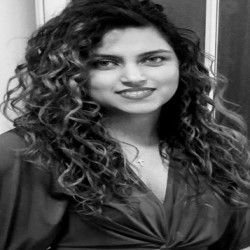
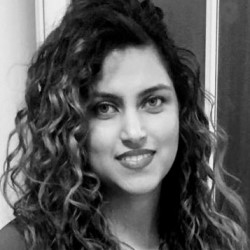
updates
- update teams image
- update favicon
- update all page titles
- remove siservs referral from footer

diff --git a/about.html b/about.html
@@ -4,7 +4,7 @@
 <head>
     <meta charset="utf-8">
     <meta http-equiv="x-ua-compatible" content="ie=edge">
-    <title>Green Soul</title>
+    <title>Generation V</title>
     <meta name="description" content="">
     <meta name="viewport" content="width=device-width, initial-scale=1">
     <!-- Favicon -->
@@ -280,7 +280,7 @@
         <div class="container">
             <!-- Copyright -->
             <div class="copyright text-center">
-                <p>© GENERATION V. ALL RIGHTS RESERVED. Made with <i class="fa fa-heart heart-icon"></i> By <a target="_blank" href="https://www.siservs.com">SISERVS</a></p>
+                <p>© GENERATION V. ALL RIGHTS RESERVED.</p>
             </div>
         </div>
     </div>

diff --git a/contact.html b/contact.html
@@ -4,7 +4,7 @@
 <head>
     <meta charset="utf-8">
     <meta http-equiv="x-ua-compatible" content="ie=edge">
-    <title>Green Soul</title>
+    <title>Generation V</title>
     <meta name="description" content="">
     <meta name="viewport" content="width=device-width, initial-scale=1">
     <!-- Favicon -->
@@ -184,7 +184,7 @@
         <div class="container">
             <!-- Copyright -->
             <div class="copyright text-center">
-                <p>© GENERATION V. ALL RIGHTS RESERVED. Made with <i class="fa fa-heart heart-icon"></i> By <a target="_blank" href="https://www.siservs.com">SISERVS</a></p>
+                <p>© GENERATION V. ALL RIGHTS RESERVED.</p>
             </div>
         </div>
     </div>

diff --git a/whatweoffer.html b/whatweoffer.html
@@ -4,7 +4,7 @@
 <head>
     <meta charset="utf-8">
     <meta http-equiv="x-ua-compatible" content="ie=edge">
-    <title>Green Soul</title>
+    <title>Generation V</title>
     <meta name="description" content="">
     <meta name="viewport" content="width=device-width, initial-scale=1">
     <!-- Favicon -->
@@ -211,7 +211,7 @@
         <div class="container">
             <!-- Copyright -->
             <div class="copyright text-center">
-                <p>© GENERATION V. ALL RIGHTS RESERVED. Made with <i class="fa fa-heart heart-icon"></i> By <a target="_blank" href="https://www.siservs.com">SISERVS</a></p>
+                <p>© GENERATION V. ALL RIGHTS RESERVED.</p>
             </div>
         </div>
     </div>

diff --git a/beauty.html b/beauty.html
@@ -4,7 +4,7 @@
 <head>
     <meta charset="utf-8">
     <meta http-equiv="x-ua-compatible" content="ie=edge">
-    <title>Green Soul</title>
+    <title>Generation V</title>
     <meta name="description" content="">
     <meta name="viewport" content="width=device-width, initial-scale=1">
     <!-- Favicon -->
@@ -241,7 +241,7 @@
         <div class="container">
         <!-- Copyright -->
         <div class="copyright text-center">
-            <p>© GENERATION V. ALL RIGHTS RESERVED. Made with <i class="fa fa-heart heart-icon"></i> By <a target="_blank" href="https://www.siservs.com">SISERVS</a></p>
+            <p>© GENERATION V. ALL RIGHTS RESERVED.</p>
         </div>
     </div>
     </div>

diff --git a/classes.html b/classes.html
@@ -4,7 +4,7 @@
 <head>
     <meta charset="utf-8">
     <meta http-equiv="x-ua-compatible" content="ie=edge">
-    <title>Green Soul</title>
+    <title>Generation V</title>
     <meta name="description" content="">
     <meta name="viewport" content="width=device-width, initial-scale=1">
     <!-- Favicon -->
@@ -235,7 +235,7 @@
         <div class="container">
         <!-- Copyright -->
         <div class="copyright text-center">
-            <p>© GENERATION V. ALL RIGHTS RESERVED. Made with <i class="fa fa-heart heart-icon"></i> By <a target="_blank" href="https://www.siservs.com">SISERVS</a></p>
+            <p>© GENERATION V. ALL RIGHTS RESERVED.</p>
         </div>
     </div>
     </div>

diff --git a/companionship.html b/companionship.html
@@ -4,7 +4,7 @@
 <head>
     <meta charset="utf-8">
     <meta http-equiv="x-ua-compatible" content="ie=edge">
-    <title>Green Soul</title>
+    <title>Generation V</title>
     <meta name="description" content="">
     <meta name="viewport" content="width=device-width, initial-scale=1">
     <!-- Favicon -->
@@ -258,7 +258,7 @@
         <div class="container">
         <!-- Copyright -->
         <div class="copyright text-center">
-            <p>© GENERATION V. ALL RIGHTS RESERVED. Made with <i class="fa fa-heart heart-icon"></i> By <a target="_blank" href="https://www.siservs.com">SISERVS</a></p>
+            <p>© GENERATION V. ALL RIGHTS RESERVED.</p>
         </div>
     </div>
     </div>

diff --git a/index.html b/index.html
@@ -4,7 +4,7 @@
 <head>
     <meta charset="utf-8">
     <meta http-equiv="x-ua-compatible" content="ie=edge">
-    <title>Green Soul</title>
+    <title>Generation V</title>
     <meta name="description" content="">
     <meta name="viewport" content="width=device-width, initial-scale=1">
     <!-- Favicon -->
@@ -317,7 +317,7 @@
         <div class="container">
         <!-- Copyright -->
         <div class="copyright text-center">
-            <p>© GENERATION V. ALL RIGHTS RESERVED. Made with <i class="fa fa-heart heart-icon"></i> By <a target="_blank" href="https://www.siservs.com">SISERVS</a></p>
+            <p>© GENERATION V. ALL RIGHTS RESERVED.</p>
         </div>
     </div>
     </div>

diff --git a/faq.html b/faq.html
@@ -4,7 +4,7 @@
 <head>
     <meta charset="utf-8">
     <meta http-equiv="x-ua-compatible" content="ie=edge">
-    <title>Green Soul</title>
+    <title>Generation V</title>
     <meta name="description" content="">
     <meta name="viewport" content="width=device-width, initial-scale=1">
     <!-- Favicon -->
@@ -172,7 +172,7 @@
     <div class="container">
         <!-- Copyright -->
         <div class="copyright text-center">
-            <p>© GENERATION V. ALL RIGHTS RESERVED. Made with <i class="fa fa-heart heart-icon"></i> By <a target="_blank" href="https://www.siservs.com">SISERVS</a></p>
+            <p>© GENERATION V. ALL RIGHTS RESERVED.</p>
         </div>
     </div>
 </div>

diff --git a/mail.php b/mail.php
@@ -57,13 +57,13 @@ try {
     $mail->isSMTP();                                            //Send using SMTP
     $mail->Host       = 'smtp.gmail.com';                       //Set the SMTP server to send through
     $mail->SMTPAuth   = true;                                   //Enable SMTP authentication
-    $mail->Username   = 'ibrahim.aboukhalil@pomechain.com';     //SMTP username
-    $mail->Password   = 'secret';                               //SMTP password
+    $mail->Username   = 'email';                                //SMTP username
+    $mail->Password   = 'password';                             //SMTP password
     $mail->SMTPSecure = PHPMailer::ENCRYPTION_SMTPS;            //Enable implicit TLS encryption
     $mail->Port       = 465;                                    //TCP port to connect to; use 587 if you have set `SMTPSecure = PHPMailer::ENCRYPTION_STARTTLS`
 
     //Recipients
-    $mail->setFrom('ibrahim.aboukhalil@pomechain.com', 'Mailer');
+    $mail->setFrom('email', 'Mailer');
     $mail->addAddress($email, $name);     //Add a recipient
 
     //Content
